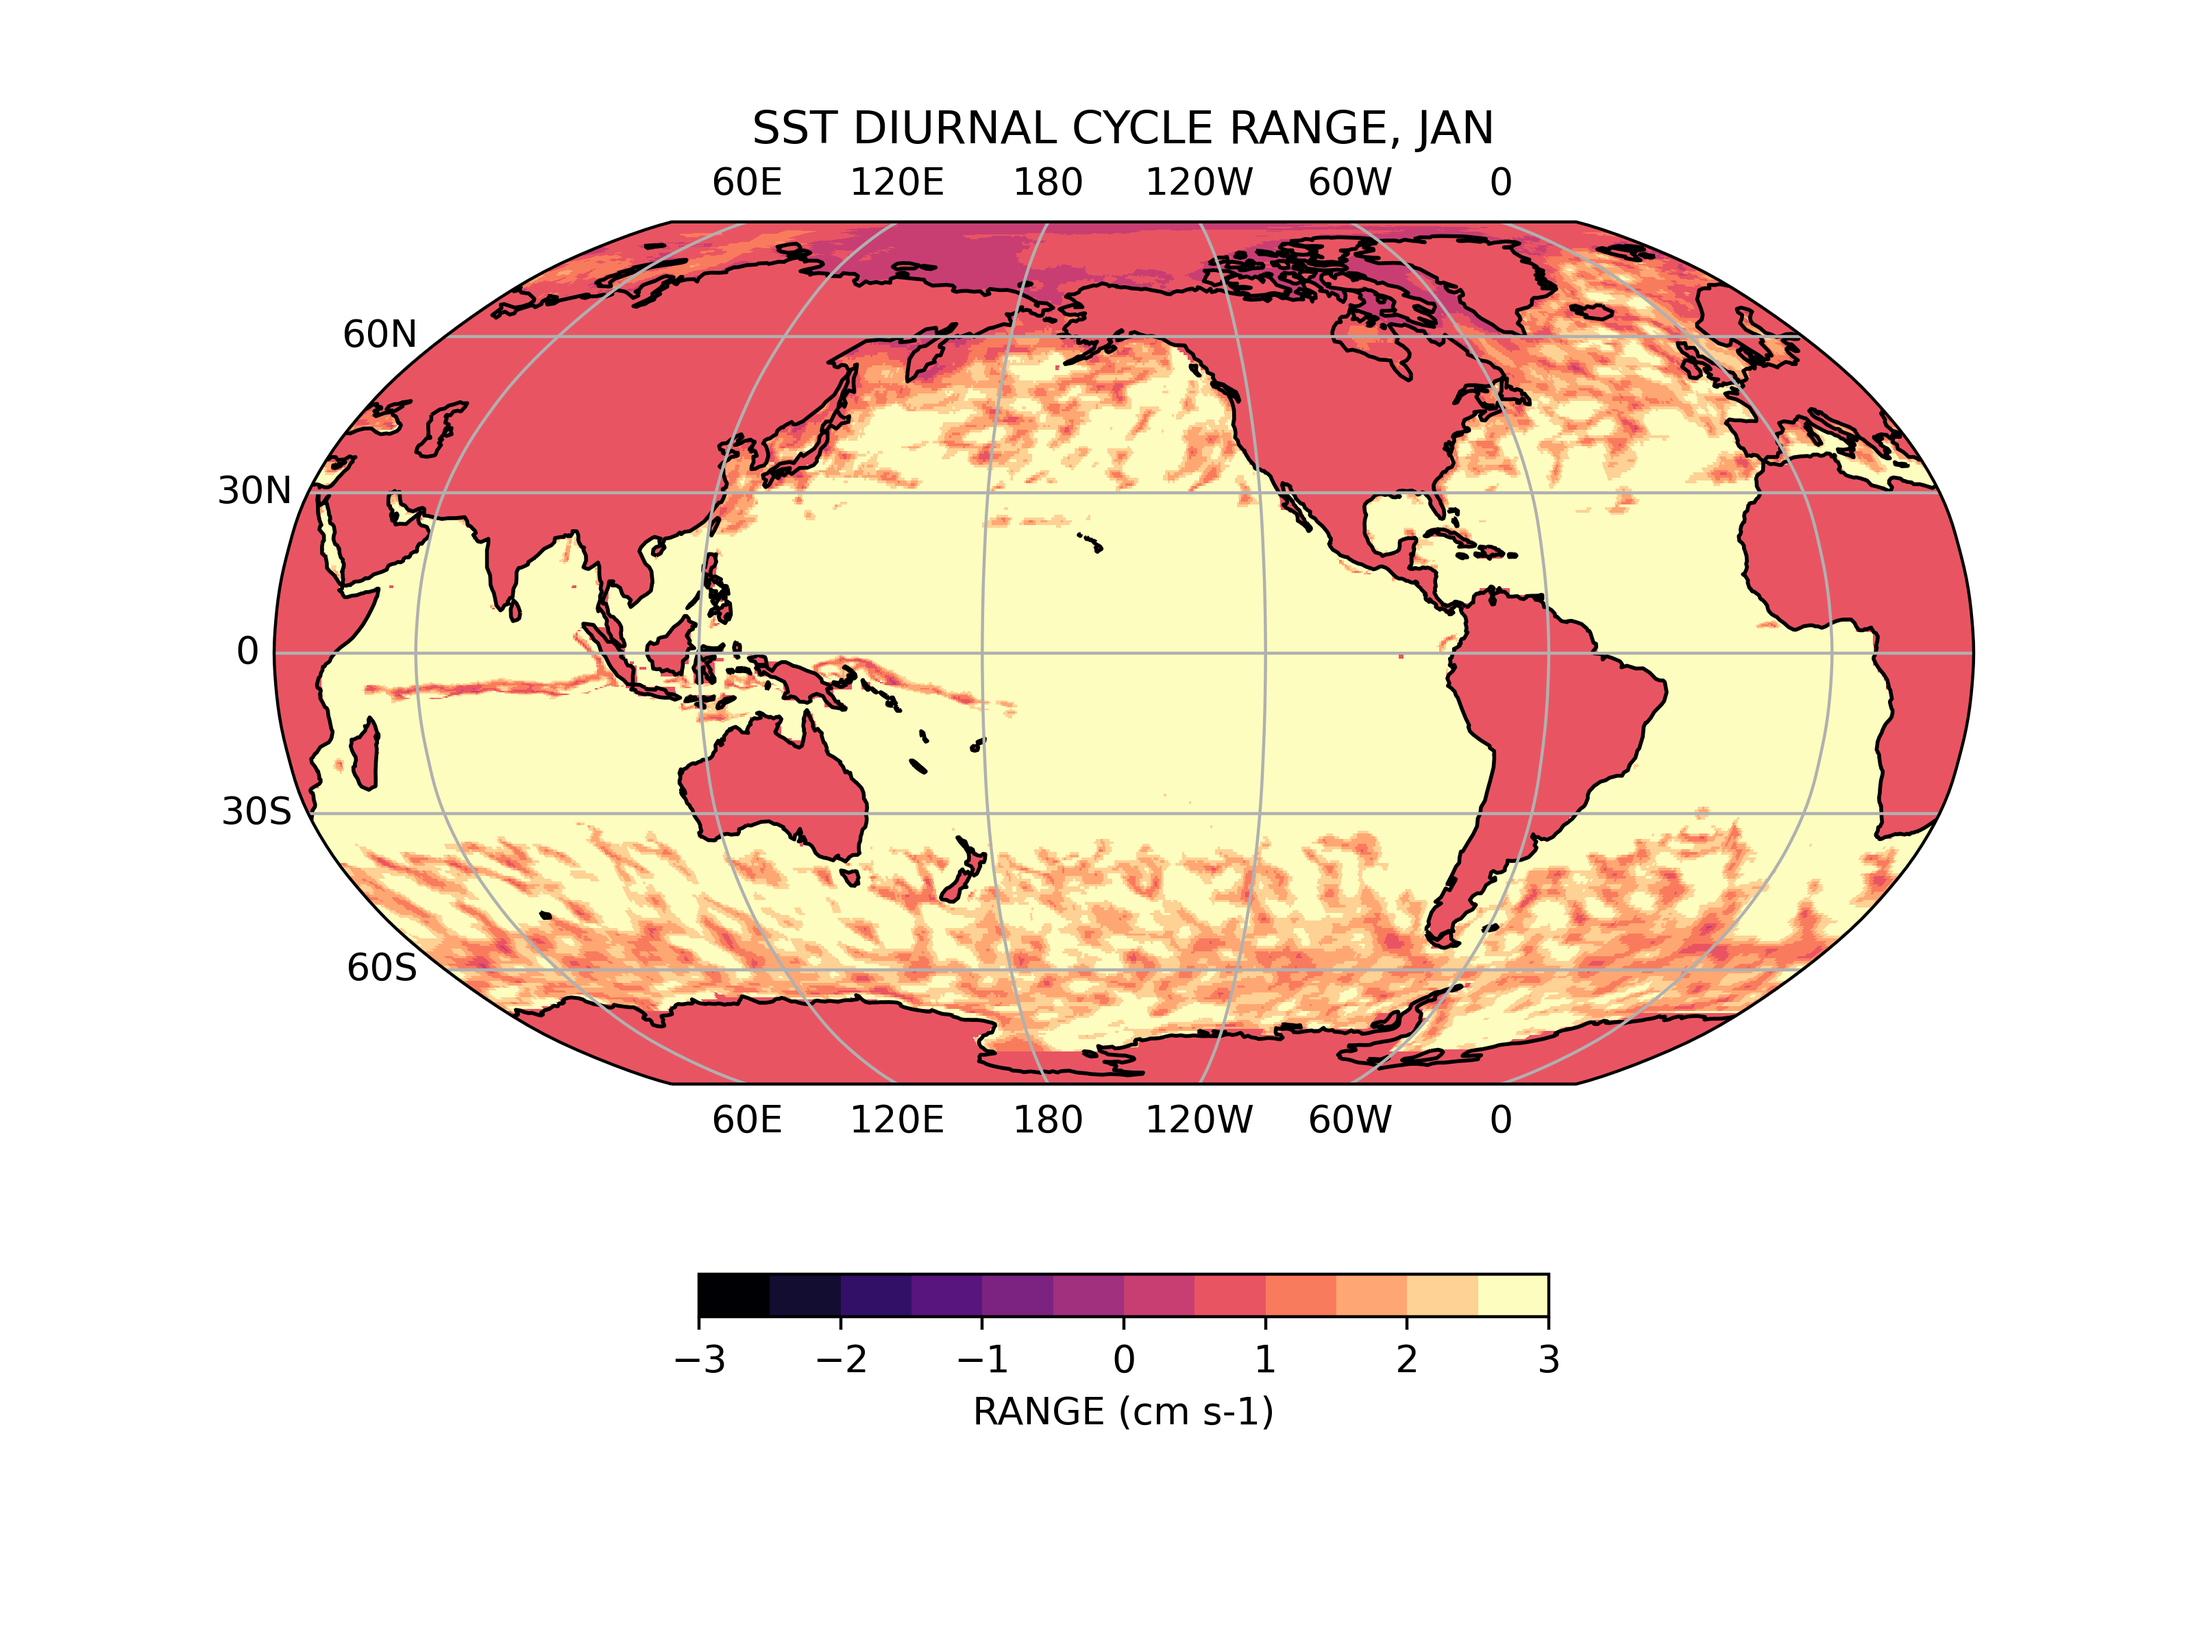
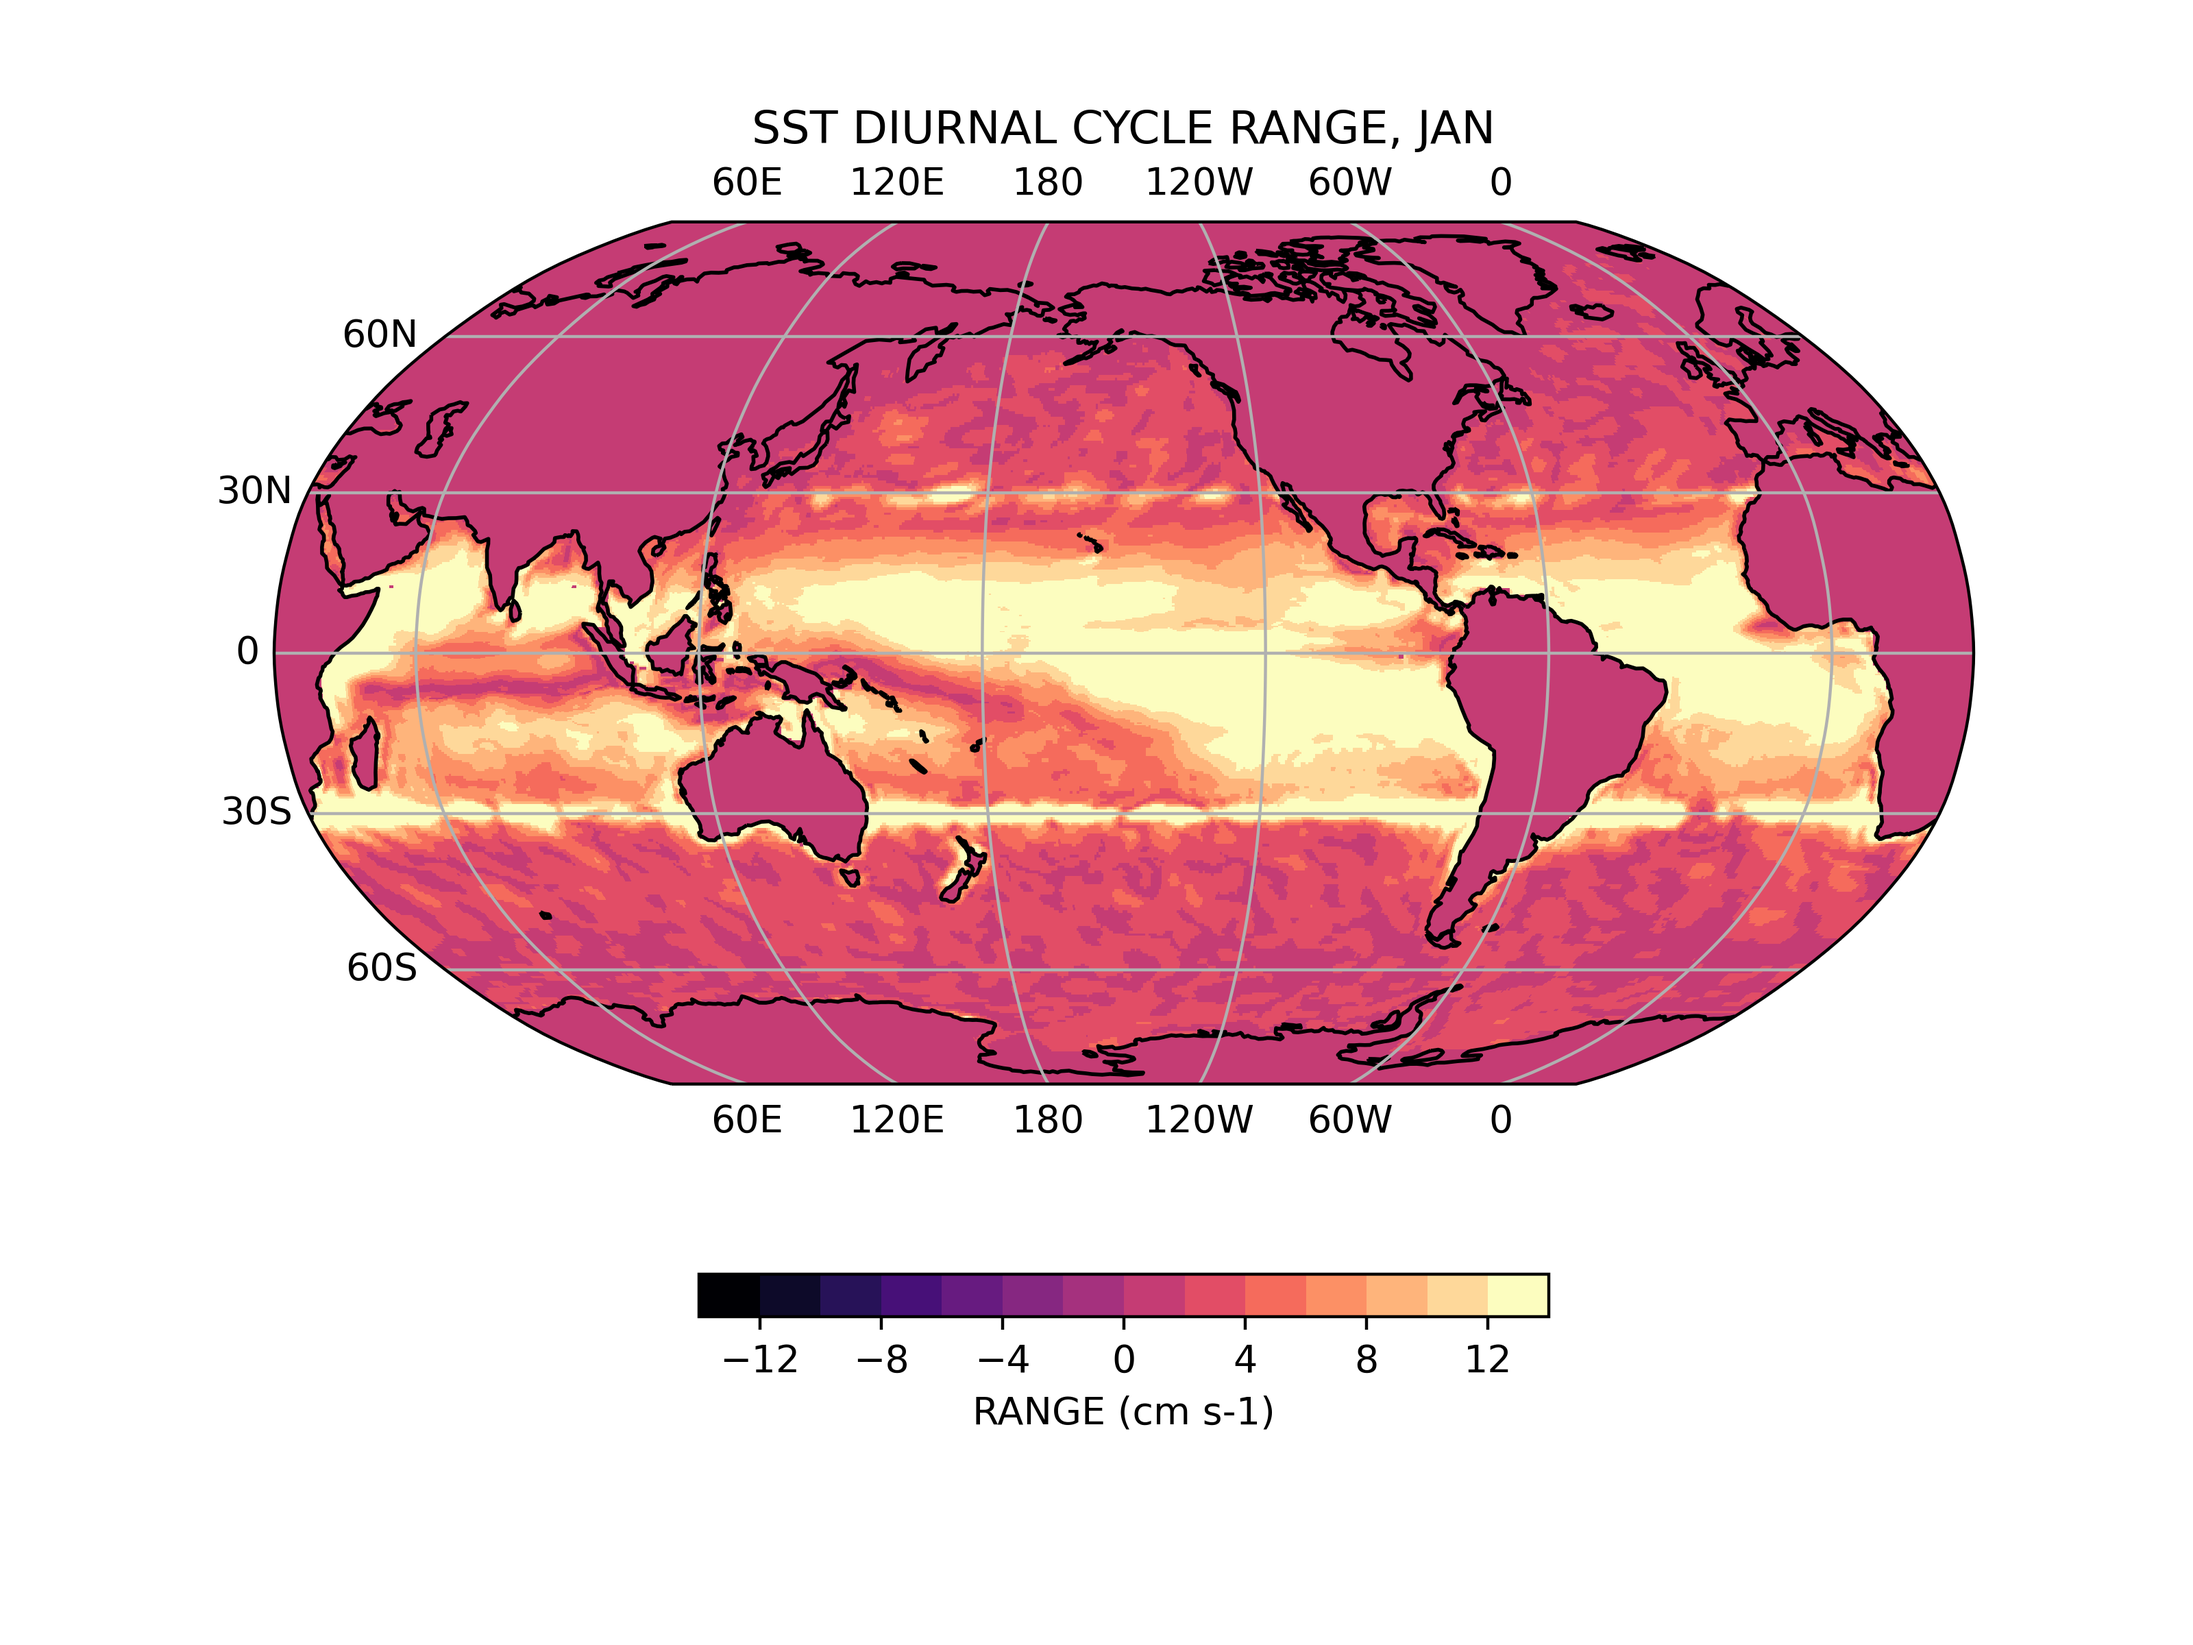
Tests changes to current maps.

diff --git a/diurnal_cycle/analysis/diurnal_range_maps.py b/diurnal_cycle/analysis/diurnal_range_maps.py
@@ -184,6 +184,7 @@ def main(plot_month, plot_var, plot_type):
             ds[v].attrs['units'] = 'cm s-1'
 
     # Plot.
+    import pdb; pdb.set_trace()
     if plot_type == 'ALL':
         plot_all_maps(ds, plot_var, month_str)
     else:
@@ -194,7 +195,7 @@ def main(plot_month, plot_var, plot_type):
 def plot_one_map(ds, ptype, pvar, mon):
     
     # Define whether and where to mask fields according to diurnal range.
-    range_mask = 0.1
+    range_mask = 0.0
     
     # Set up figure and axes.
     fig = plt.figure(figsize=(8, 6))
@@ -350,9 +351,9 @@ def plot_dets(vn, att, pty=None):
             'latname':'geolat_c',
             'lonname':'geolon_c',
             'plotname':'SST',
-            'minRANGE':-3.0,
-            'maxRANGE':3.0,
-            'stepRANGE':0.5,
+            'minRANGE':-14.0,
+            'maxRANGE':14.0,
+            'stepRANGE':2.0,
             'unitsRANGE':'cm s-1',
             'cmapRANGE':'magma',
             'minPHASE':0.0,
